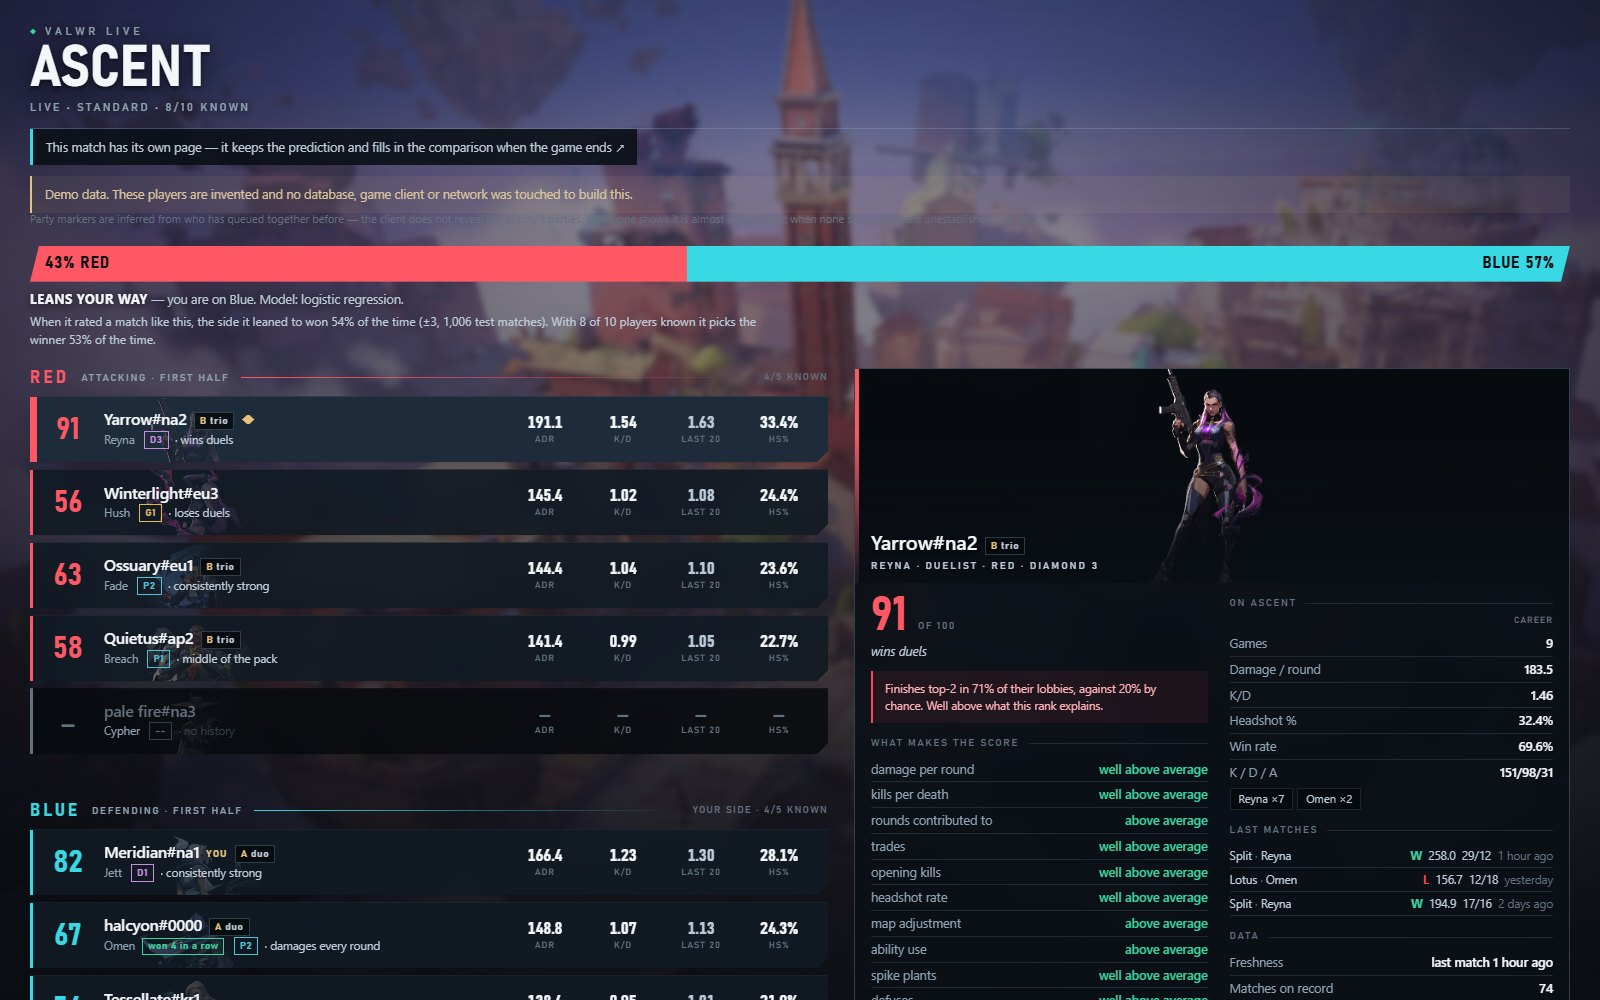
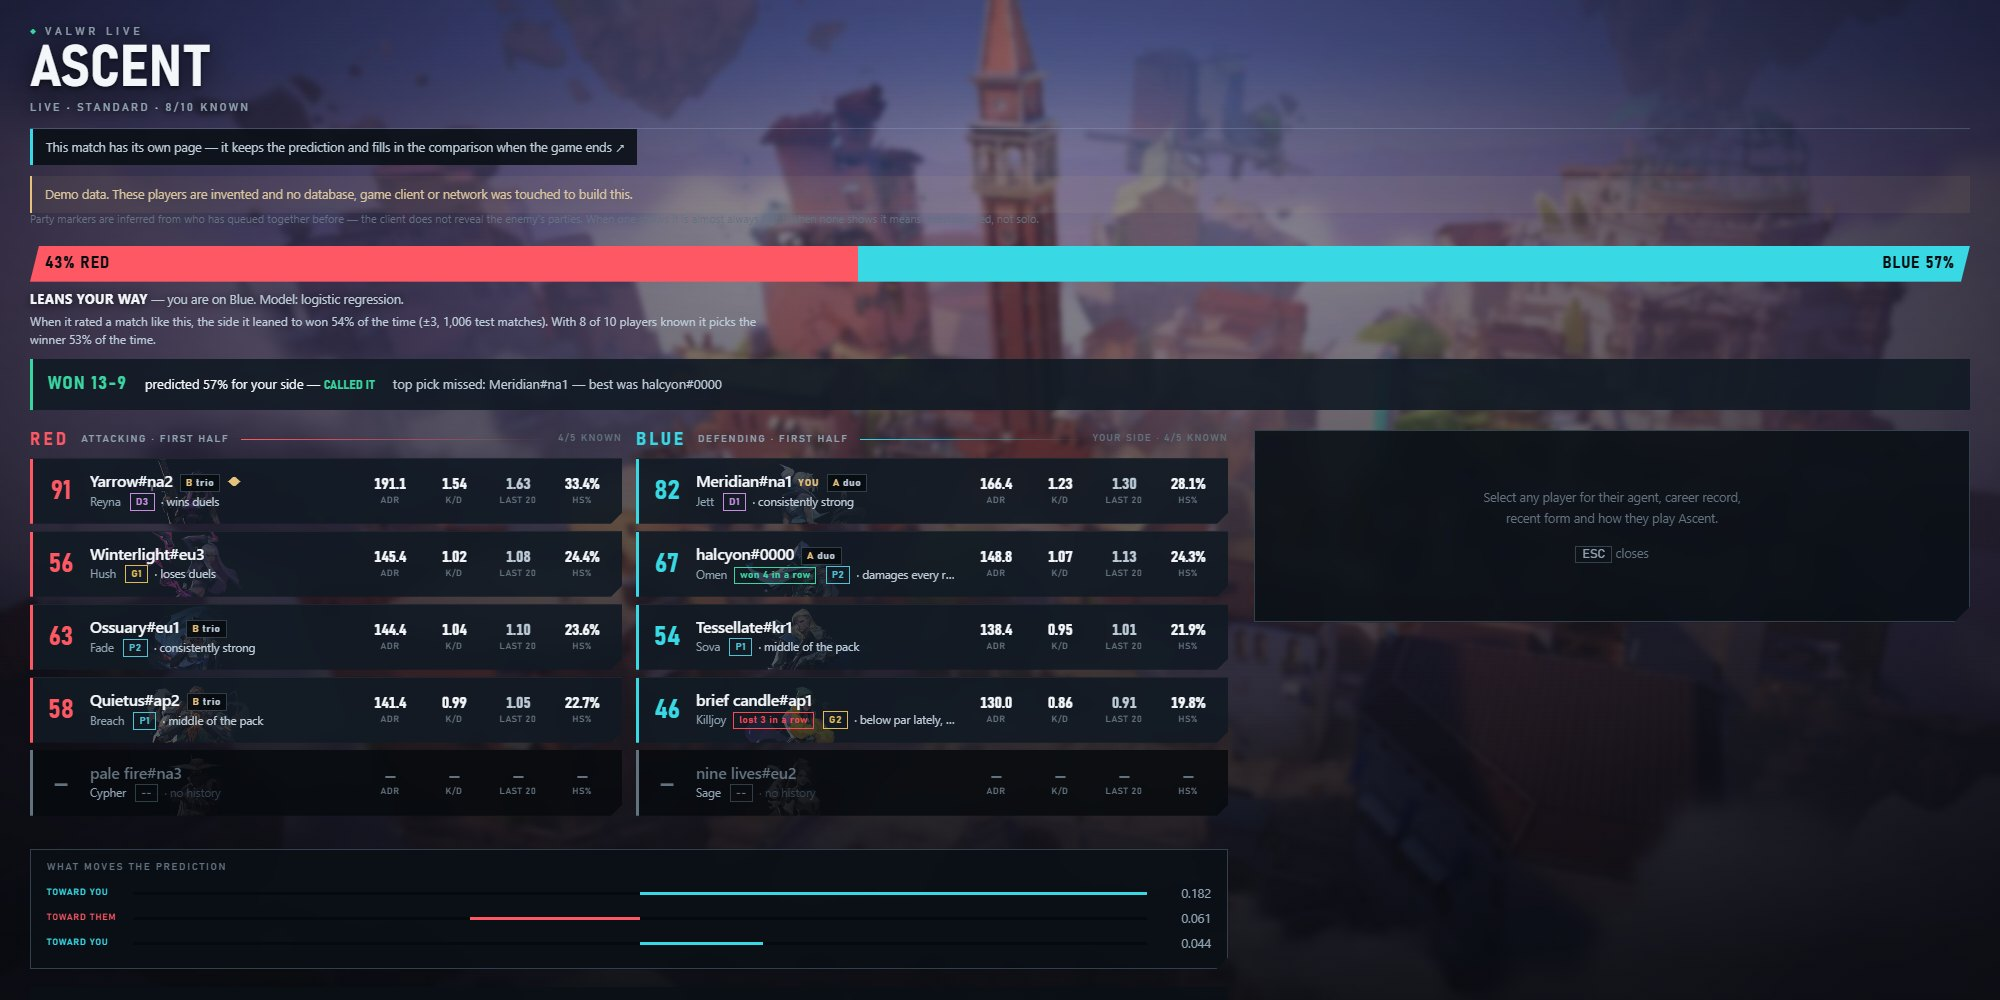
Capture the README images at the width the dashboard is used at
At 1600 and 1440px the roster's container never passes 1180px, so every
image showed the two teams stacked -- a layout a wide monitor never shows.
Shoot the desktop images at 2000x1000, stop if the teams are not side by
side there, and make the hero a finished match: the result, both teams,
and what moved the prediction. 2000 joins the widths the guard checks.

diff --git a/tools/capture_dashboard.py b/tools/capture_dashboard.py
@@ -6,7 +6,10 @@
 
 Writes docs/images/:
 
-    dashboard.jpg              the scoreboard with one player's card open
+    dashboard.jpg              a finished match: the result, both teams side
+                               by side, and what moved the prediction
+    dashboard-result.jpg       the same match, scrolled to the prediction
+                               checked against the scoreboard
     dashboard-walkthrough.webp an animated tour: select, switch map and side,
                                a thin lobby, closing the card
     dashboard-phone.jpg        the phone layout, list and card side by side
@@ -89,7 +92,12 @@ MIN_NAME_PX = 90
 # upward -- on a 2560 screen it was unreadable -- while this guard reported all
 # clear, because 144px of name passes a 90px minimum. A width that is never
 # checked is a width that breaks.
-CHECK_WIDTHS = (1280, 1440, 1600, 1920, 2030, 2560, 3440)
+CHECK_WIDTHS = (1280, 1440, 1600, 1920, 2000, 2030, 2560, 3440)
+# The desktop shots are taken this wide. The two teams sit side by side only
+# once the roster's container passes 1180px, which beside the 716px card panel
+# means a window of about 2000px -- at 1600 and 1440 the images showed the
+# teams stacked, a layout the dashboard on a wide monitor never shows.
+WIDE = {"width": 2000, "height": 1000}
 
 
 def check_layout(browser, url: str) -> list[str]:
@@ -257,24 +265,26 @@ def main(argv=None) -> int:
               f"{MIN_NAME_PX}px, at "
               f"{', '.join(map(str, CHECK_WIDTHS))}px")
 
-        # --- the hero: the scoreboard with a card open --------------------
-        page = browser.new_page(viewport={"width": 1600, "height": 1000}, **CSP)
+        # --- the hero: a finished match, as a pinned tab settles into -------
+        # Result, both teams side by side, and what moved the prediction --
+        # what the page looks like on a wide monitor after a game.
+        page = browser.new_page(viewport=WIDE, **CSP)
         page.goto(url + "?clean")
         settle(page)
-        page.click('button.row[data-puuid="demo-05"]')
-        settle(page)
-        page.screenshot(path=str(OUT / "dashboard.jpg"), type="jpeg", quality=86)
-
-        # ...and the same match once it has been played, which is what a
-        # pinned tab settles into.
         page.evaluate("() => window.__demo.set('status', 'finished')")
         settle(page)
-        # The card is closed and the comparison scrolled to, because it is the
-        # point of this shot and it sits below the rosters. Its own top, not
+        cols = page.evaluate("() => getComputedStyle(document.querySelector("
+                             "'.rosters')).gridTemplateColumns.split(' ').length")
+        if cols != 2:
+            print(f"the teams are not side by side at {WIDE['width']}px")
+            browser.close()
+            httpd.shutdown()
+            return 1
+        page.screenshot(path=str(OUT / "dashboard.jpg"), type="jpeg", quality=86)
+
+        # ...then the comparison, scrolled to its own top, not
         # scroll_into_view_if_needed's -- the section is taller than the
-        # viewport now, so "if needed" lands halfway down it.
-        page.keyboard.press("Escape")
-        page.wait_for_timeout(300)
+        # viewport, so "if needed" lands halfway down it.
         page.evaluate(
             "() => window.scrollTo(0, document.querySelector('.compare')"
             ".getBoundingClientRect().top + window.scrollY - 12)")
@@ -284,7 +294,7 @@ def main(argv=None) -> int:
         page.close()
 
         # --- agent select: your team as cards ------------------------------
-        page = browser.new_page(viewport={"width": 1600, "height": 1000}, **CSP)
+        page = browser.new_page(viewport=WIDE, **CSP)
         page.goto(url + "?clean&phase=pregame")
         settle(page, "button.pcard")
         page.screenshot(path=str(OUT / "dashboard-agent-select.jpg"),
@@ -292,7 +302,7 @@ def main(argv=None) -> int:
         page.close()
 
         # --- the walkthrough ------------------------------------------------
-        page = browser.new_page(viewport={"width": 1440, "height": 900}, **CSP)
+        page = browser.new_page(viewport=WIDE, **CSP)
         page.goto(url + "?clean")
         settle(page)
         frames, holds = [], []
@@ -306,7 +316,7 @@ def main(argv=None) -> int:
                 page.keyboard.press(action[1])
             settle(page)
             shot = Image.open(io.BytesIO(page.screenshot(type="png"))).convert("RGB")
-            shot = shot.resize((1080, round(shot.height * 1080 / shot.width)),
+            shot = shot.resize((1400, round(shot.height * 1400 / shot.width)),
                                Image.LANCZOS)
             frames.append(caption(shot, text))
             holds.append(hold)

diff --git a/docs/DASHBOARD.md b/docs/DASHBOARD.md
@@ -5,7 +5,7 @@ teams' odds, all ten players, and what is known about each of them. It updates
 by itself, from agent select through the match: every three seconds, and at
 once when the game announces agent select, a lock-in or the match starting.
 
-![The dashboard with one player's card open](images/dashboard.jpg)
+![The dashboard after a match: the result, both teams side by side, and what moved the prediction](images/dashboard.jpg)
 
 **[Try the interactive demo](https://fahranalam04-cmd.github.io/valorant-winrate-predictor/)**
 — the real page, running in your browser with invented players. Change the

diff --git a/README.md b/README.md
@@ -12,7 +12,7 @@ prediction in plain English.
 > measured on a held-out test set, not estimated. Phase 8, an LLM coaching
 > layer, is not built.
 
-![The live dashboard: both teams, the odds, and one player's card](docs/images/dashboard.jpg)
+![The dashboard after a match: the result, both teams side by side, and what moved the prediction](docs/images/dashboard.jpg)
 
 **[Try the interactive demo](https://fahranalam04-cmd.github.io/valorant-winrate-predictor/)**
 — the real dashboard page in your browser, with invented players. ·
